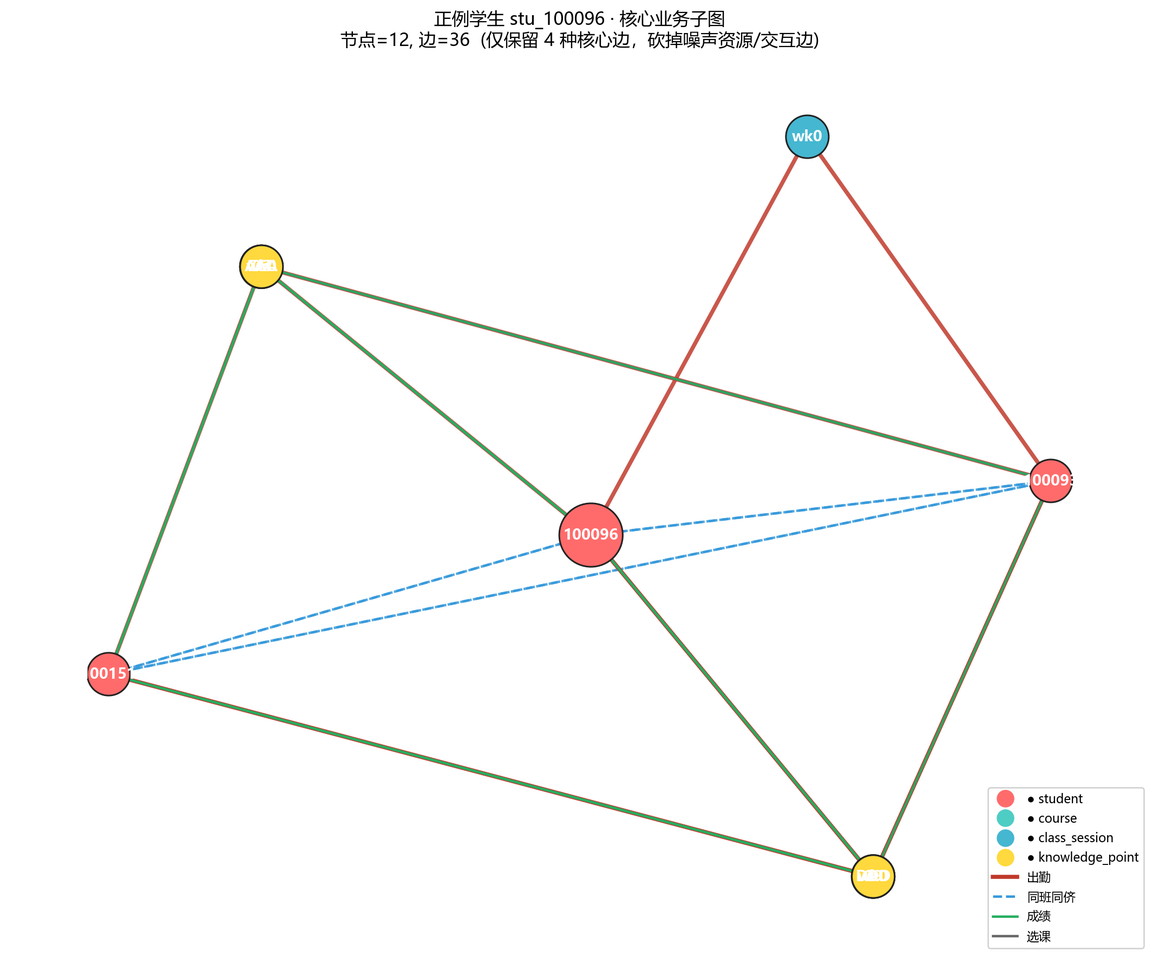
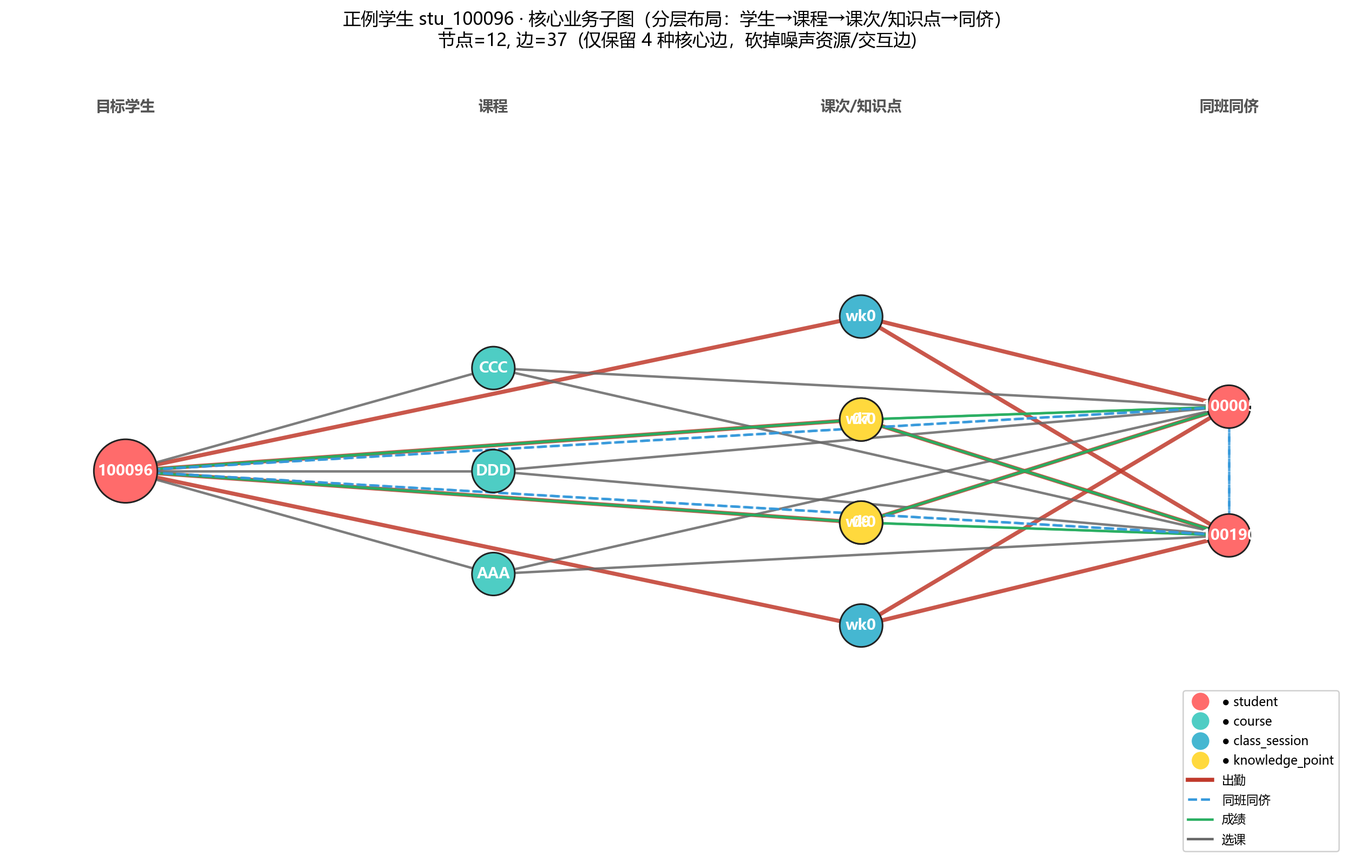
feat(algorithm): 新增学生风险画像 + 子图改分层布局
- 新增 visualize_risk_portrait.py: 多面板风险画像（指标卡片/课程成绩/出勤趋势/小测趋势/风险雷达图）
- visualize_graph_v2.py: 子图从力导向布局改为分层布局（学生→课程→课次/知识点→同侪）
- 替代难懂的密集节点关系图，直接回答'学生为什么有风险'

diff --git a/algorithm/data/processed/graph_viz/subgraph_interactive.html b/algorithm/data/processed/graph_viz/subgraph_interactive.html
@@ -88,8 +88,8 @@
                   
 
                   // parsing and collecting nodes and edges from the python
-                  nodes = new vis.DataSet([{"borderColor": "#ffffff", "borderWidth": 1, "color": "#FF6B6B", "font": {"color": "#222"}, "id": "stu_100093", "label": "100093", "shape": "dot", "size": 25, "title": "\u003cb\u003estu_100093\u003c/b\u003e\u003cbr\u003e\u7c7b\u578b: student\u003cbr\u003e"}, {"borderColor": "#c0392b", "borderWidth": 3, "color": "#FF6B6B", "font": {"color": "#222"}, "id": "stu_100096", "label": "100096", "shape": "dot", "size": 45, "title": "\u003cb\u003estu_100096\u003c/b\u003e\u003cbr\u003e\u7c7b\u578b: student\u003cbr\u003e\u26a0\ufe0f \u76ee\u6807\u6b63\u4f8b\u5b66\u751f"}, {"borderColor": "#ffffff", "borderWidth": 1, "color": "#45B7D1", "font": {"color": "#222"}, "id": "cs_EEE_2024F_wk0", "label": "wk0", "shape": "dot", "size": 25, "title": "\u003cb\u003ecs_EEE_2024F_wk0\u003c/b\u003e\u003cbr\u003e\u7c7b\u578b: class_session\u003cbr\u003e"}, {"borderColor": "#ffffff", "borderWidth": 1, "color": "#4ECDC4", "font": {"color": "#222"}, "id": "crs_CCC", "label": "CCC", "shape": "dot", "size": 25, "title": "\u003cb\u003ecrs_CCC\u003c/b\u003e\u003cbr\u003e\u7c7b\u578b: course\u003cbr\u003e"}, {"borderColor": "#ffffff", "borderWidth": 1, "color": "#FFD93D", "font": {"color": "#222"}, "id": "kp_AAA_07", "label": "07", "shape": "dot", "size": 25, "title": "\u003cb\u003ekp_AAA_07\u003c/b\u003e\u003cbr\u003e\u7c7b\u578b: knowledge_point\u003cbr\u003e"}, {"borderColor": "#ffffff", "borderWidth": 1, "color": "#4ECDC4", "font": {"color": "#222"}, "id": "crs_AAA", "label": "AAA", "shape": "dot", "size": 25, "title": "\u003cb\u003ecrs_AAA\u003c/b\u003e\u003cbr\u003e\u7c7b\u578b: course\u003cbr\u003e"}, {"borderColor": "#ffffff", "borderWidth": 1, "color": "#45B7D1", "font": {"color": "#222"}, "id": "cs_CCC_2024F_wk0", "label": "wk0", "shape": "dot", "size": 25, "title": "\u003cb\u003ecs_CCC_2024F_wk0\u003c/b\u003e\u003cbr\u003e\u7c7b\u578b: class_session\u003cbr\u003e"}, {"borderColor": "#ffffff", "borderWidth": 1, "color": "#FF6B6B", "font": {"color": "#222"}, "id": "stu_100151", "label": "100151", "shape": "dot", "size": 25, "title": "\u003cb\u003estu_100151\u003c/b\u003e\u003cbr\u003e\u7c7b\u578b: student\u003cbr\u003e"}, {"borderColor": "#ffffff", "borderWidth": 1, "color": "#45B7D1", "font": {"color": "#222"}, "id": "cs_AAA_2024F_wk0", "label": "wk0", "shape": "dot", "size": 25, "title": "\u003cb\u003ecs_AAA_2024F_wk0\u003c/b\u003e\u003cbr\u003e\u7c7b\u578b: class_session\u003cbr\u003e"}, {"borderColor": "#ffffff", "borderWidth": 1, "color": "#FFD93D", "font": {"color": "#222"}, "id": "kp_AAA_09", "label": "09", "shape": "dot", "size": 25, "title": "\u003cb\u003ekp_AAA_09\u003c/b\u003e\u003cbr\u003e\u7c7b\u578b: knowledge_point\u003cbr\u003e"}, {"borderColor": "#ffffff", "borderWidth": 1, "color": "#45B7D1", "font": {"color": "#222"}, "id": "cs_DDD_2024F_wk0", "label": "wk0", "shape": "dot", "size": 25, "title": "\u003cb\u003ecs_DDD_2024F_wk0\u003c/b\u003e\u003cbr\u003e\u7c7b\u578b: class_session\u003cbr\u003e"}, {"borderColor": "#ffffff", "borderWidth": 1, "color": "#4ECDC4", "font": {"color": "#222"}, "id": "crs_DDD", "label": "DDD", "shape": "dot", "size": 25, "title": "\u003cb\u003ecrs_DDD\u003c/b\u003e\u003cbr\u003e\u7c7b\u578b: course\u003cbr\u003e"}]);
-                  edges = new vis.DataSet([{"color": "#3498db", "dashes": [6, 4], "from": "stu_100093", "title": "\u540c\u73ed\u540c\u4faa", "to": "stu_100096", "width": 1.5}, {"color": "#c0392b", "dashes": false, "from": "stu_100093", "title": "\u51fa\u52e4", "to": "cs_EEE_2024F_wk0", "width": 3}, {"color": "#666666", "dashes": false, "from": "stu_100093", "title": "\u9009\u8bfe", "to": "crs_CCC", "width": 1.5}, {"color": "#27ae60", "dashes": false, "from": "stu_100093", "title": "\u6210\u7ee9", "to": "kp_AAA_07", "width": 1.5}, {"color": "#666666", "dashes": false, "from": "stu_100093", "title": "\u9009\u8bfe", "to": "crs_AAA", "width": 1.5}, {"color": "#c0392b", "dashes": false, "from": "stu_100093", "title": "\u51fa\u52e4", "to": "cs_CCC_2024F_wk0", "width": 3}, {"color": "#3498db", "dashes": [6, 4], "from": "stu_100093", "title": "\u540c\u73ed\u540c\u4faa", "to": "stu_100151", "width": 1.5}, {"color": "#c0392b", "dashes": false, "from": "stu_100093", "title": "\u51fa\u52e4", "to": "cs_AAA_2024F_wk0", "width": 3}, {"color": "#27ae60", "dashes": false, "from": "stu_100093", "title": "\u6210\u7ee9", "to": "kp_AAA_09", "width": 1.5}, {"color": "#c0392b", "dashes": false, "from": "stu_100093", "title": "\u51fa\u52e4", "to": "cs_DDD_2024F_wk0", "width": 3}, {"color": "#666666", "dashes": false, "from": "stu_100093", "title": "\u9009\u8bfe", "to": "crs_DDD", "width": 1.5}, {"color": "#c0392b", "dashes": false, "from": "stu_100096", "title": "\u51fa\u52e4", "to": "cs_EEE_2024F_wk0", "width": 3}, {"color": "#666666", "dashes": false, "from": "stu_100096", "title": "\u9009\u8bfe", "to": "crs_CCC", "width": 1.5}, {"color": "#27ae60", "dashes": false, "from": "stu_100096", "title": "\u6210\u7ee9", "to": "kp_AAA_07", "width": 1.5}, {"color": "#666666", "dashes": false, "from": "stu_100096", "title": "\u9009\u8bfe", "to": "crs_AAA", "width": 1.5}, {"color": "#c0392b", "dashes": false, "from": "stu_100096", "title": "\u51fa\u52e4", "to": "cs_CCC_2024F_wk0", "width": 3}, {"color": "#3498db", "dashes": [6, 4], "from": "stu_100096", "title": "\u540c\u73ed\u540c\u4faa", "to": "stu_100151", "width": 1.5}, {"color": "#c0392b", "dashes": false, "from": "stu_100096", "title": "\u51fa\u52e4", "to": "cs_AAA_2024F_wk0", "width": 3}, {"color": "#27ae60", "dashes": false, "from": "stu_100096", "title": "\u6210\u7ee9", "to": "kp_AAA_09", "width": 1.5}, {"color": "#c0392b", "dashes": false, "from": "stu_100096", "title": "\u51fa\u52e4", "to": "cs_DDD_2024F_wk0", "width": 3}, {"color": "#666666", "dashes": false, "from": "stu_100096", "title": "\u9009\u8bfe", "to": "crs_DDD", "width": 1.5}, {"color": "#666666", "dashes": false, "from": "stu_100151", "title": "\u9009\u8bfe", "to": "crs_CCC", "width": 1.5}, {"color": "#27ae60", "dashes": false, "from": "stu_100151", "title": "\u6210\u7ee9", "to": "kp_AAA_07", "width": 1.5}, {"color": "#666666", "dashes": false, "from": "stu_100151", "title": "\u9009\u8bfe", "to": "crs_AAA", "width": 1.5}, {"color": "#c0392b", "dashes": false, "from": "stu_100151", "title": "\u51fa\u52e4", "to": "cs_CCC_2024F_wk0", "width": 3}, {"color": "#c0392b", "dashes": false, "from": "stu_100151", "title": "\u51fa\u52e4", "to": "cs_AAA_2024F_wk0", "width": 3}, {"color": "#27ae60", "dashes": false, "from": "stu_100151", "title": "\u6210\u7ee9", "to": "kp_AAA_09", "width": 1.5}, {"color": "#c0392b", "dashes": false, "from": "stu_100151", "title": "\u51fa\u52e4", "to": "cs_DDD_2024F_wk0", "width": 3}, {"color": "#666666", "dashes": false, "from": "stu_100151", "title": "\u9009\u8bfe", "to": "crs_DDD", "width": 1.5}]);
+                  nodes = new vis.DataSet([{"borderColor": "#ffffff", "borderWidth": 1, "color": "#FF6B6B", "font": {"color": "#222"}, "id": "stu_100190", "label": "100190", "shape": "dot", "size": 25, "title": "\u003cb\u003estu_100190\u003c/b\u003e\u003cbr\u003e\u7c7b\u578b: student\u003cbr\u003e"}, {"borderColor": "#ffffff", "borderWidth": 1, "color": "#45B7D1", "font": {"color": "#222"}, "id": "cs_DDD_2024F_wk0", "label": "wk0", "shape": "dot", "size": 25, "title": "\u003cb\u003ecs_DDD_2024F_wk0\u003c/b\u003e\u003cbr\u003e\u7c7b\u578b: class_session\u003cbr\u003e"}, {"borderColor": "#ffffff", "borderWidth": 1, "color": "#4ECDC4", "font": {"color": "#222"}, "id": "crs_AAA", "label": "AAA", "shape": "dot", "size": 25, "title": "\u003cb\u003ecrs_AAA\u003c/b\u003e\u003cbr\u003e\u7c7b\u578b: course\u003cbr\u003e"}, {"borderColor": "#ffffff", "borderWidth": 1, "color": "#FFD93D", "font": {"color": "#222"}, "id": "kp_AAA_09", "label": "09", "shape": "dot", "size": 25, "title": "\u003cb\u003ekp_AAA_09\u003c/b\u003e\u003cbr\u003e\u7c7b\u578b: knowledge_point\u003cbr\u003e"}, {"borderColor": "#ffffff", "borderWidth": 1, "color": "#FF6B6B", "font": {"color": "#222"}, "id": "stu_100005", "label": "100005", "shape": "dot", "size": 25, "title": "\u003cb\u003estu_100005\u003c/b\u003e\u003cbr\u003e\u7c7b\u578b: student\u003cbr\u003e"}, {"borderColor": "#ffffff", "borderWidth": 1, "color": "#FFD93D", "font": {"color": "#222"}, "id": "kp_AAA_07", "label": "07", "shape": "dot", "size": 25, "title": "\u003cb\u003ekp_AAA_07\u003c/b\u003e\u003cbr\u003e\u7c7b\u578b: knowledge_point\u003cbr\u003e"}, {"borderColor": "#ffffff", "borderWidth": 1, "color": "#45B7D1", "font": {"color": "#222"}, "id": "cs_AAA_2024F_wk0", "label": "wk0", "shape": "dot", "size": 25, "title": "\u003cb\u003ecs_AAA_2024F_wk0\u003c/b\u003e\u003cbr\u003e\u7c7b\u578b: class_session\u003cbr\u003e"}, {"borderColor": "#c0392b", "borderWidth": 3, "color": "#FF6B6B", "font": {"color": "#222"}, "id": "stu_100096", "label": "100096", "shape": "dot", "size": 45, "title": "\u003cb\u003estu_100096\u003c/b\u003e\u003cbr\u003e\u7c7b\u578b: student\u003cbr\u003e\u26a0\ufe0f \u76ee\u6807\u6b63\u4f8b\u5b66\u751f"}, {"borderColor": "#ffffff", "borderWidth": 1, "color": "#4ECDC4", "font": {"color": "#222"}, "id": "crs_DDD", "label": "DDD", "shape": "dot", "size": 25, "title": "\u003cb\u003ecrs_DDD\u003c/b\u003e\u003cbr\u003e\u7c7b\u578b: course\u003cbr\u003e"}, {"borderColor": "#ffffff", "borderWidth": 1, "color": "#4ECDC4", "font": {"color": "#222"}, "id": "crs_CCC", "label": "CCC", "shape": "dot", "size": 25, "title": "\u003cb\u003ecrs_CCC\u003c/b\u003e\u003cbr\u003e\u7c7b\u578b: course\u003cbr\u003e"}, {"borderColor": "#ffffff", "borderWidth": 1, "color": "#45B7D1", "font": {"color": "#222"}, "id": "cs_EEE_2024F_wk0", "label": "wk0", "shape": "dot", "size": 25, "title": "\u003cb\u003ecs_EEE_2024F_wk0\u003c/b\u003e\u003cbr\u003e\u7c7b\u578b: class_session\u003cbr\u003e"}, {"borderColor": "#ffffff", "borderWidth": 1, "color": "#45B7D1", "font": {"color": "#222"}, "id": "cs_CCC_2024F_wk0", "label": "wk0", "shape": "dot", "size": 25, "title": "\u003cb\u003ecs_CCC_2024F_wk0\u003c/b\u003e\u003cbr\u003e\u7c7b\u578b: class_session\u003cbr\u003e"}]);
+                  edges = new vis.DataSet([{"color": "#c0392b", "dashes": false, "from": "stu_100190", "title": "\u51fa\u52e4", "to": "cs_DDD_2024F_wk0", "width": 3}, {"color": "#666666", "dashes": false, "from": "stu_100190", "title": "\u9009\u8bfe", "to": "crs_AAA", "width": 1.5}, {"color": "#27ae60", "dashes": false, "from": "stu_100190", "title": "\u6210\u7ee9", "to": "kp_AAA_09", "width": 1.5}, {"color": "#3498db", "dashes": [6, 4], "from": "stu_100190", "title": "\u540c\u73ed\u540c\u4faa", "to": "stu_100005", "width": 1.5}, {"color": "#27ae60", "dashes": false, "from": "stu_100190", "title": "\u6210\u7ee9", "to": "kp_AAA_07", "width": 1.5}, {"color": "#3498db", "dashes": [6, 4], "from": "stu_100190", "title": "\u540c\u73ed\u540c\u4faa", "to": "stu_100096", "width": 1.5}, {"color": "#666666", "dashes": false, "from": "stu_100190", "title": "\u9009\u8bfe", "to": "crs_DDD", "width": 1.5}, {"color": "#666666", "dashes": false, "from": "stu_100190", "title": "\u9009\u8bfe", "to": "crs_CCC", "width": 1.5}, {"color": "#c0392b", "dashes": false, "from": "stu_100190", "title": "\u51fa\u52e4", "to": "cs_EEE_2024F_wk0", "width": 3}, {"color": "#c0392b", "dashes": false, "from": "stu_100190", "title": "\u51fa\u52e4", "to": "cs_CCC_2024F_wk0", "width": 3}, {"color": "#c0392b", "dashes": false, "from": "stu_100005", "title": "\u51fa\u52e4", "to": "cs_DDD_2024F_wk0", "width": 3}, {"color": "#666666", "dashes": false, "from": "stu_100005", "title": "\u9009\u8bfe", "to": "crs_AAA", "width": 1.5}, {"color": "#27ae60", "dashes": false, "from": "stu_100005", "title": "\u6210\u7ee9", "to": "kp_AAA_09", "width": 1.5}, {"color": "#27ae60", "dashes": false, "from": "stu_100005", "title": "\u6210\u7ee9", "to": "kp_AAA_07", "width": 1.5}, {"color": "#c0392b", "dashes": false, "from": "stu_100005", "title": "\u51fa\u52e4", "to": "cs_AAA_2024F_wk0", "width": 3}, {"color": "#3498db", "dashes": [6, 4], "from": "stu_100005", "title": "\u540c\u73ed\u540c\u4faa", "to": "stu_100096", "width": 1.5}, {"color": "#666666", "dashes": false, "from": "stu_100005", "title": "\u9009\u8bfe", "to": "crs_DDD", "width": 1.5}, {"color": "#666666", "dashes": false, "from": "stu_100005", "title": "\u9009\u8bfe", "to": "crs_CCC", "width": 1.5}, {"color": "#c0392b", "dashes": false, "from": "stu_100005", "title": "\u51fa\u52e4", "to": "cs_CCC_2024F_wk0", "width": 3}, {"color": "#c0392b", "dashes": false, "from": "stu_100096", "title": "\u51fa\u52e4", "to": "cs_DDD_2024F_wk0", "width": 3}, {"color": "#666666", "dashes": false, "from": "stu_100096", "title": "\u9009\u8bfe", "to": "crs_AAA", "width": 1.5}, {"color": "#27ae60", "dashes": false, "from": "stu_100096", "title": "\u6210\u7ee9", "to": "kp_AAA_09", "width": 1.5}, {"color": "#27ae60", "dashes": false, "from": "stu_100096", "title": "\u6210\u7ee9", "to": "kp_AAA_07", "width": 1.5}, {"color": "#c0392b", "dashes": false, "from": "stu_100096", "title": "\u51fa\u52e4", "to": "cs_AAA_2024F_wk0", "width": 3}, {"color": "#666666", "dashes": false, "from": "stu_100096", "title": "\u9009\u8bfe", "to": "crs_DDD", "width": 1.5}, {"color": "#666666", "dashes": false, "from": "stu_100096", "title": "\u9009\u8bfe", "to": "crs_CCC", "width": 1.5}, {"color": "#c0392b", "dashes": false, "from": "stu_100096", "title": "\u51fa\u52e4", "to": "cs_EEE_2024F_wk0", "width": 3}, {"color": "#c0392b", "dashes": false, "from": "stu_100096", "title": "\u51fa\u52e4", "to": "cs_CCC_2024F_wk0", "width": 3}]);
 
                   nodeColors = {};
                   allNodes = nodes.get({ returnType: "Object" });

diff --git a/algorithm/src/visualize_risk_portrait.py b/algorithm/src/visualize_risk_portrait.py
@@ -1,0 +1,216 @@
+"""
+学生风险画像可视化 —— 替代难懂的节点关系图
+
+核心思路：不画密集的节点连线，而是用「指标卡片 + 趋势图 + 雷达图」
+直接回答"这个学生为什么有风险"。
+
+产出：algorithm/data/processed/graph_viz/risk_portrait.png
+运行：python algorithm/src/visualize_risk_portrait.py
+"""
+from pathlib import Path
+
+import matplotlib.pyplot as plt
+import matplotlib.patches as mpatches
+import numpy as np
+import pandas as pd
+from matplotlib.gridspec import GridSpec
+
+plt.rcParams["font.sans-serif"] = ["Microsoft YaHei", "SimHei", "DejaVu Sans"]
+plt.rcParams["axes.unicode_minus"] = False
+
+INTERIM = Path("algorithm/data/interim")
+PROCESSED = Path("algorithm/data/processed")
+OUT = Path("algorithm/data/processed/graph_viz")
+OUT.mkdir(parents=True, exist_ok=True)
+
+# ═══════════════════════════════════════════════════════════════════════════
+# 1. 载入数据
+# ═══════════════════════════════════════════════════════════════════════════
+fin = pd.read_parquet(INTERIM / "final_result.parquet")
+log = pd.read_parquet(INTERIM / "platform_log.parquet")
+quiz = pd.read_parquet(INTERIM / "quiz_item.parquet")
+asm = pd.read_parquet(INTERIM / "student_assessment.parquet")
+asm_cfg = pd.read_parquet(INTERIM / "assessment_config.parquet")
+tft = pd.read_parquet(PROCESSED / "tft_weekly.parquet")
+
+# 选一个正例学生（有挂科记录）
+pos = fin[fin["is_positive"] == 1]
+# 优先选有多门挂科的学生，画像更典型
+fail_counts = pos.groupby("stu_id").size()
+stu_id = fail_counts.idxmax()
+print(f"目标学生: {stu_id} (挂科 {fail_counts.max()} 门)")
+
+sfin = fin[fin["stu_id"] == stu_id].copy()
+slog = log[log["stu_id"] == stu_id].copy()
+squiz = quiz[quiz["stu_id"] == stu_id].copy()
+sasm = asm[asm["stu_id"] == stu_id].copy()
+stft = tft[tft["stu_id"] == stu_id].copy()
+
+# 全体负例学生的均值（用于对比）
+neg = fin[fin["is_positive"] == 0]["stu_id"].unique()
+neg_tft = tft[tft["stu_id"].isin(neg)]
+
+
+# ═══════════════════════════════════════════════════════════════════════════
+# 2. 计算各项指标
+# ═══════════════════════════════════════════════════════════════════════════
+# 整体出勤率
+att = slog["attendance_status"].isin(["attended", "attended_leave"]).mean()
+# 小测正确率
+quiz_correct = (squiz["score"] / squiz["max_score"]).mean() if len(squiz) else 0
+# 挂科门数
+n_fail = (sfin["status"].isin(["不合格", "缺考"])).sum()
+# 平均迟到分钟
+avg_late = slog["late_minutes"].mean()
+# 作业迟交次数
+hw_late = (sasm["days_late"] > 0).sum()
+
+# 负例均值（对比基准）
+neg_att = neg_tft.groupby("stu_id")["attendance_rate"].mean()
+# attendance_rate 在 tft 里是累计值/周，需要换算：用 platform_log 算更准
+neg_log = log[log["stu_id"].isin(neg)]
+neg_att_rate = neg_log["attendance_status"].isin(["attended", "attended_leave"]).mean()
+neg_quiz = (quiz[quiz["stu_id"].isin(neg)]["score"] /
+            quiz[quiz["stu_id"].isin(neg)]["max_score"]).mean()
+
+
+# ═══════════════════════════════════════════════════════════════════════════
+# 3. 画图
+# ═══════════════════════════════════════════════════════════════════════════
+fig = plt.figure(figsize=(18, 12), facecolor="#f8f9fa")
+gs = GridSpec(3, 4, figure=fig, hspace=0.45, wspace=0.35,
+              left=0.06, right=0.96, top=0.92, bottom=0.06)
+
+# ── 标题 ──
+risk_color = "#e74c3c"
+fig.suptitle(f"学生风险画像  ·  {stu_id}    "
+             f"风险等级：高危（{n_fail} 门课程不合格/缺考）",
+             fontsize=18, fontweight="bold", color=risk_color, y=0.97)
+
+# ── 面板 1：关键指标卡片（占整行 4 列中的 4 个小格）──
+card_axes = [fig.add_subplot(gs[0, i]) for i in range(4)]
+cards = [
+    ("整体出勤率", f"{att:.0%}", att, 0.80, "%"),
+    ("小测正确率", f"{quiz_correct:.0%}", quiz_correct, 0.70, "%"),
+    ("挂科门数", f"{n_fail}", n_fail, 1, "门"),
+    ("平均迟到", f"{avg_late:.0f}", avg_late, 10, "分钟"),
+]
+for ax, (name, val, raw, threshold, unit) in zip(card_axes, cards):
+    # 颜色：低于阈值=红，高于=绿
+    if name in ("挂科门数", "平均迟到"):
+        good = raw <= threshold
+    else:
+        good = raw >= threshold
+    color = "#27ae60" if good else "#e74c3c"
+    ax.set_facecolor("#ffffff")
+    ax.text(0.5, 0.62, val, fontsize=36, fontweight="bold",
+            color=color, ha="center", va="center", transform=ax.transAxes)
+    ax.text(0.5, 0.28, name, fontsize=13, color="#555",
+            ha="center", va="center", transform=ax.transAxes)
+    # 基准线
+    baseline = {"整体出勤率": f"正常均值 {neg_att_rate:.0%}",
+                "小测正确率": f"正常均值 {neg_quiz:.0%}",
+                "挂科门数": "正常 0 门",
+                "平均迟到": "正常 <10 分钟"}[name]
+    ax.text(0.5, 0.08, baseline, fontsize=9, color="#999",
+            ha="center", va="center", transform=ax.transAxes)
+    ax.set_xticks([]); ax.set_yticks([])
+    for spine in ax.spines.values():
+        spine.set_color(color); spine.set_linewidth(2)
+
+# ── 面板 2：各课程期末成绩（横向条形图）──
+ax2 = fig.add_subplot(gs[1, 0:2])
+course_scores = sfin.sort_values("final_score")
+colors_bar = ["#e74c3c" if s < 60 else "#27ae60" for s in course_scores["final_score"]]
+bars = ax2.barh(range(len(course_scores)), course_scores["final_score"],
+                color=colors_bar, edgecolor="white", height=0.6)
+ax2.set_yticks(range(len(course_scores)))
+ax2.set_yticklabels([f"{r.course_code} ({r.semester})" for r in course_scores.itertuples()],
+                    fontsize=11)
+ax2.axvline(60, color="#e67e22", ls="--", lw=2, label="及格线 60")
+ax2.set_xlim(0, 105)
+ax2.set_xlabel("期末成绩", fontsize=11)
+ax2.set_title("各课程期末成绩", fontsize=13, fontweight="bold", pad=10)
+ax2.legend(fontsize=10)
+for bar, score in zip(bars, course_scores["final_score"]):
+    ax2.text(bar.get_width() + 1, bar.get_y() + bar.get_height() / 2,
+             f"{score:.1f}", va="center", fontsize=10, color="#333")
+
+# ── 面板 3：每周出勤率趋势（按学期）──
+ax3 = fig.add_subplot(gs[1, 2:4])
+for sem in sorted(sfin["semester"].unique()):
+    sub = stft[stft["semester"] == sem].sort_values("week")
+    # 出勤率：attended / total，从 platform_log 按周算
+    sem_log = slog[slog["semester"] == sem]
+    weekly = sem_log.groupby("week").agg(
+        att=("attendance_status", lambda s: (s.isin(["attended", "attended_leave"])).sum()),
+        tot=("attendance_status", "count")
+    ).reset_index()
+    weekly["rate"] = weekly["att"] / weekly["tot"]
+    ax3.plot(weekly["week"], weekly["rate"], marker="o", lw=2, label=f"{sem}")
+ax3.axhline(0.80, color="#27ae60", ls="--", lw=1.5, alpha=0.7, label="达标线 80%")
+ax3.set_xlabel("周次", fontsize=11)
+ax3.set_ylabel("出勤率", fontsize=11)
+ax3.set_title("每周出勤率趋势", fontsize=13, fontweight="bold", pad=10)
+ax3.set_ylim(0, 1.05)
+ax3.legend(fontsize=10)
+ax3.grid(True, alpha=0.3)
+
+# ── 面板 4：随堂小测正确率趋势（核心 DKT 信号）──
+ax4 = fig.add_subplot(gs[2, 0:2])
+for sem in sorted(sfin["semester"].unique()):
+    sem_quiz = squiz[squiz["semester"] == sem].copy()
+    if len(sem_quiz) == 0:
+        continue
+    sem_quiz["correct"] = sem_quiz["score"] / sem_quiz["max_score"]
+    weekly_q = sem_quiz.groupby("week")["correct"].mean().reset_index()
+    ax4.plot(weekly_q["week"], weekly_q["correct"], marker="s", lw=2, label=f"{sem}")
+ax4.axhline(0.60, color="#e67e22", ls="--", lw=1.5, alpha=0.7, label="及格线 60%")
+ax4.set_xlabel("周次", fontsize=11)
+ax4.set_ylabel("小测正确率", fontsize=11)
+ax4.set_title("随堂小测正确率趋势（DKT 信号）", fontsize=13, fontweight="bold", pad=10)
+ax4.set_ylim(0, 1.05)
+ax4.legend(fontsize=10)
+ax4.grid(True, alpha=0.3)
+
+# ── 面板 5：风险因子雷达图（多维度对比）──
+ax5 = fig.add_subplot(gs[2, 2:4], polar=True)
+factors = ["出勤率", "小测正确率", "作业按时", "少缺勤", "少迟到"]
+# 该学生各因子得分（归一化 0-1，越高越好）
+stu_scores = [
+    att,
+    quiz_correct,
+    1 - min(hw_late / 10, 1),
+    1 - min((slog["attendance_status"] == "absent").mean() / 0.3, 1),
+    1 - min(avg_late / 30, 1),
+]
+# 负例均值
+neg_hw_late = (asm[asm["stu_id"].isin(neg)]["days_late"] > 0).mean()
+neg_absent = (neg_log["attendance_status"] == "absent").mean()
+neg_scores = [
+    neg_att_rate,
+    neg_quiz,
+    1 - min(neg_hw_late * 10, 1),
+    1 - min(neg_absent / 0.3, 1),
+    1 - min(5 / 30, 1),
+]
+
+angles = np.linspace(0, 2 * np.pi, len(factors), endpoint=False).tolist()
+stu_scores += stu_scores[:1]
+neg_scores += neg_scores[:1]
+angles += angles[:1]
+
+ax5.plot(angles, stu_scores, "o-", lw=2.5, color="#e74c3c", label=f"{stu_id[-6:]}")
+ax5.fill(angles, stu_scores, alpha=0.2, color="#e74c3c")
+ax5.plot(angles, neg_scores, "s--", lw=2, color="#27ae60", label="正常学生均值")
+ax5.fill(angles, neg_scores, alpha=0.1, color="#27ae60")
+ax5.set_xticks(angles[:-1])
+ax5.set_xticklabels(factors, fontsize=11)
+ax5.set_ylim(0, 1)
+ax5.set_title("风险因子多维对比", fontsize=13, fontweight="bold", pad=20)
+ax5.legend(loc="upper right", bbox_to_anchor=(1.25, 1.1), fontsize=10)
+
+out_path = OUT / "risk_portrait.png"
+plt.savefig(out_path, dpi=150, bbox_inches="tight", facecolor=fig.get_facecolor())
+print(f"\n✅ 风险画像 → {out_path}")
+print("   包含：关键指标卡片 / 课程成绩 / 出勤趋势 / 小测趋势 / 风险雷达图")

diff --git a/algorithm/src/visualize_graph_v2.py b/algorithm/src/visualize_graph_v2.py
@@ -154,13 +154,35 @@ print(f"     用浏览器（Chrome/Edge）双击打开即可，可拖拽/缩放/
 
 
 # ═══════════════════════════════════════════════════════════════════════════════
-# 方案 B：精简静态 PNG（matplotlib + kamada_kawai_layout，均匀分布）
+# 方案 B：精简静态 PNG（分层布局，学生→课程→课次/知识点→同侪，从左到右）
 # ═══════════════════════════════════════════════════════════════════════════════
-print("\n方案 B：生成精简静态 PNG...")
-fig, ax = plt.subplots(figsize=(12, 10))
+print("\n方案 B：生成精简静态 PNG（分层布局）...")
+fig, ax = plt.subplots(figsize=(14, 9))
 
-pos = nx.kamada_kawai_layout(G_sub)
-pos[stu_id] = (0.0, 0.0)
+# 分层：按节点类型分配 x 坐标（列），同层内均匀分布 y
+LAYER_X = {"student": 0.0, "course": 2.5, "class_session": 5.0,
+           "knowledge_point": 5.0, "resource": 7.0}
+# 同班同侪学生放最右列
+peer_students = [n for n in G_sub.nodes()
+                 if ntype_of(n) == "student" and n != stu_id]
+
+pos = {}
+for ntype, x in LAYER_X.items():
+    nodes = [n for n in G_sub.nodes() if ntype_of(n) == ntype]
+    if ntype == "student":
+        # 目标学生单独一列，同侪另起一列
+        if stu_id in nodes:
+            pos[stu_id] = (0.0, 0.0)
+        if peer_students:
+            n = len(peer_students)
+            for i, pn in enumerate(peer_students):
+                pos[pn] = (7.5, (i - (n - 1) / 2) * 1.5)
+    else:
+        n = len(nodes)
+        if n == 0:
+            continue
+        for i, node in enumerate(nodes):
+            pos[node] = (x, (i - (n - 1) / 2) * 1.2)
 
 # 按 edge_type 分组画
 edge_groups: dict[str, list] = {}
@@ -221,11 +243,19 @@ for etype in ["attended", "attended_with", "scored_on", "enrolled_in"]:
 ax.legend(handles=node_handles + edge_handles, loc="lower right",
           fontsize=9, framealpha=0.92)
 
-ax.set_title(f"正例学生 {stu_id} · 核心业务子图\n"
+ax.set_title(f"正例学生 {stu_id} · 核心业务子图（分层布局：学生→课程→课次/知识点→同侪）\n"
              f"节点={G_sub.number_of_nodes()}, 边={G_sub.number_of_edges()}  "
              f"(仅保留 4 种核心边，砍掉噪声资源/交互边)",
              fontsize=13, pad=10)
+
+# 列标签（每一层的含义）
+col_labels = {0.0: "目标学生", 2.5: "课程", 5.0: "课次/知识点", 7.5: "同班同侪"}
+for x, label in col_labels.items():
+    ax.text(x, 4.2, label, ha="center", fontsize=11, color="#555",
+            fontweight="bold", transform=ax.transData)
+
 ax.axis("off")
+ax.set_ylim(-4.5, 4.8)
 plt.tight_layout()
 plt.savefig(OUT / "subgraph_clean.png", dpi=180, bbox_inches="tight")
 print(f"  ✅ 精简静态 PNG → {OUT / 'subgraph_clean.png'}")
